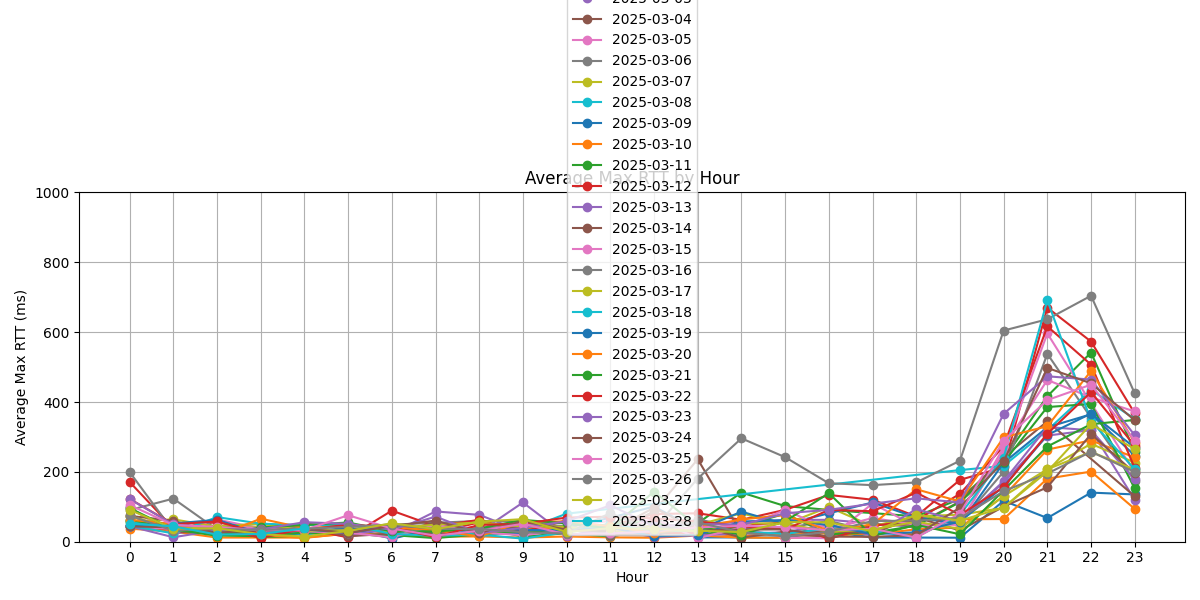
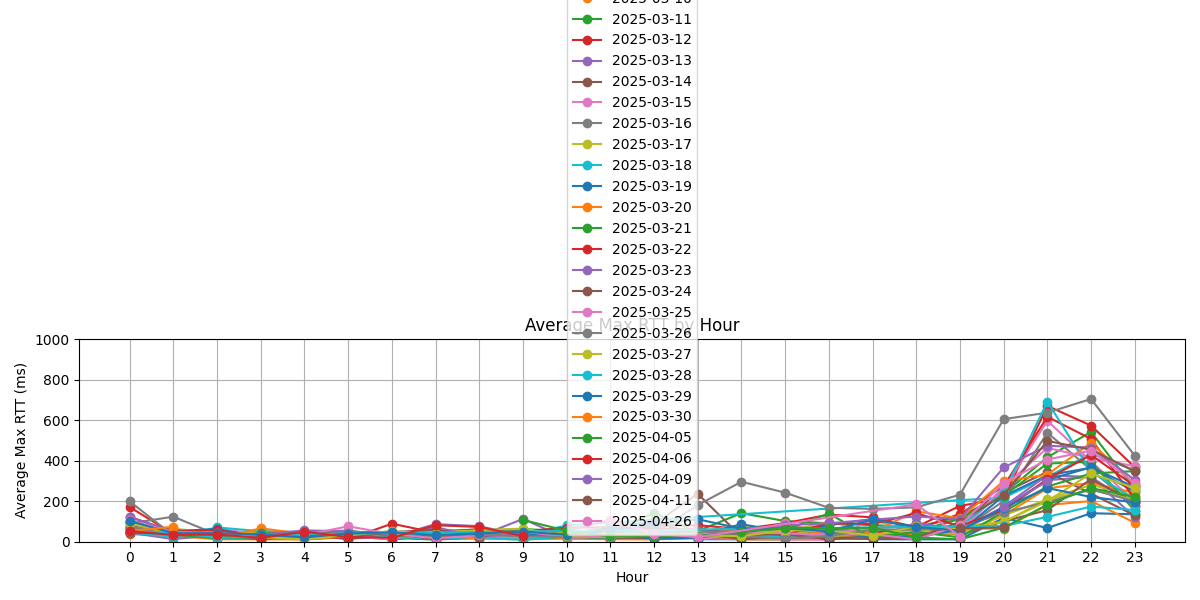
network_analysis系

diff --git a/network_analysis/network-analysis.py b/network_analysis/network-analysis.py
@@ -77,7 +77,7 @@ def analyze_network_data_combined2(csv_string):
     plt.figure(figsize=(12, 6))
 
     # 日付ごとに描画
-    for date in dates:
+    for date in dates[-10:]:
         # その日のデータを抽出
         daily_data = df[df["date"] == date]
 
